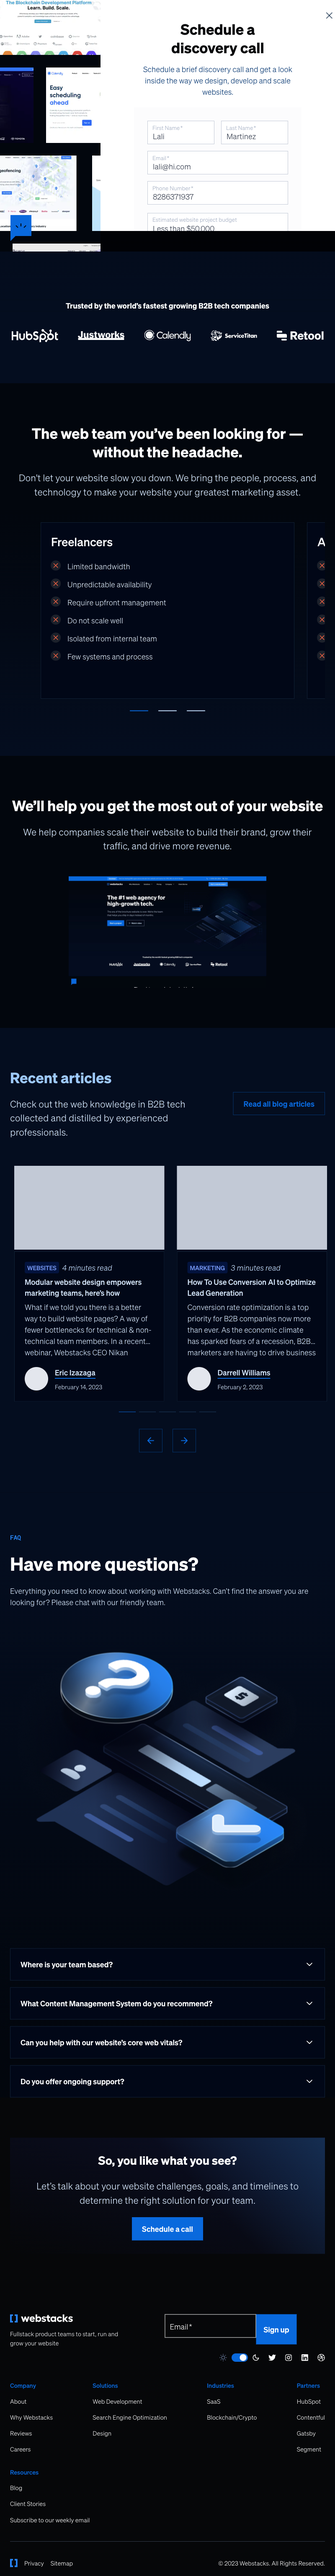
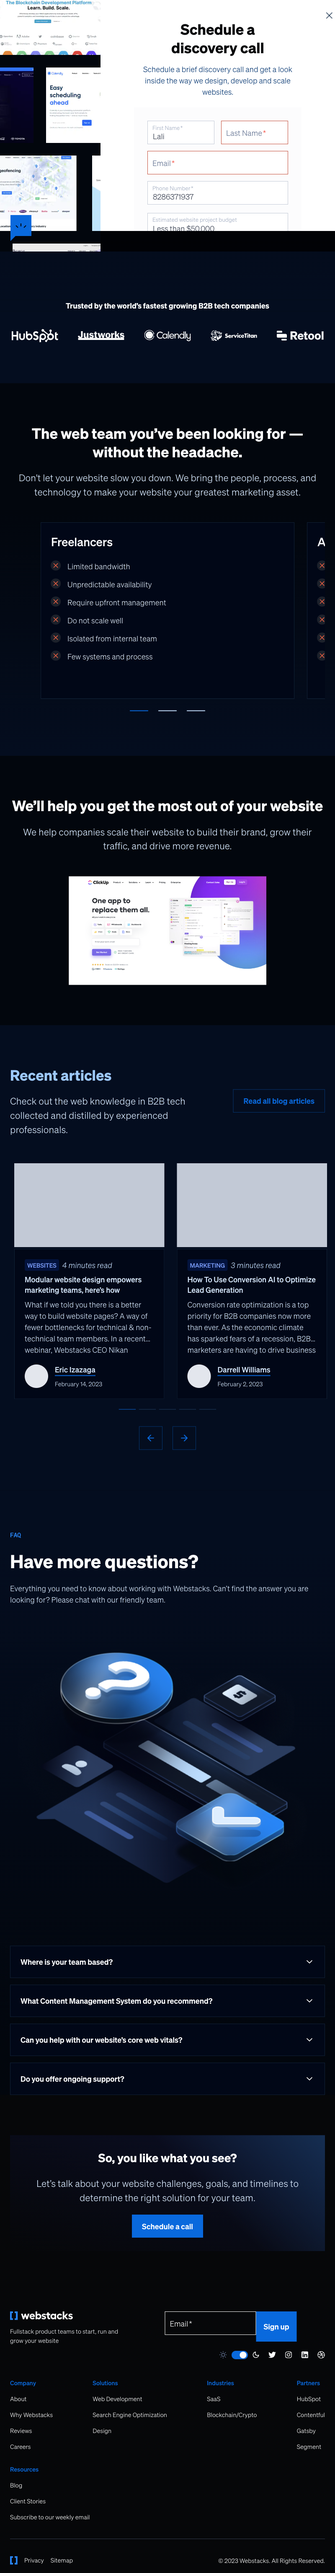
Updated script to check if required fields are empty and print a message to the console saying whether or not form was submitted.

diff --git a/index.js b/index.js
@@ -19,15 +19,18 @@ async function fillOutStartWebsiteProjectForm() {
   await closeSurveyButton[0].click();
   await page.waitForTimeout(2000);
 
+  //Open form
   const startWebsiteButton = await page.$x('//*[@id="76c00e62-f6cc-5450-9667-dfaf9604c3b0"]');
   await startWebsiteButton[3].click();
   await page.waitForTimeout(3000);
 
+  //Fill out form
   await page.type('#mui-20', 'Lali');
-  await page.type('#mui-21', 'Martinez');
-  await page.type('#mui-22', 'lali@hi.com');
+  //await page.type('#mui-21', 'Martinez');
+  //await page.type('#mui-22', 'lali@hi.com');
   await page.type('#mui-23', '8286371937')
 
+  //Select drop down option
   const budgetDropdown = await page.$x('//*[@id="mui-component-select-estimated_website_project_budget"]');
   await budgetDropdown[3].click();
   await page.waitForTimeout(1000);
@@ -35,10 +38,35 @@ async function fillOutStartWebsiteProjectForm() {
   await selectBudget[0].click();
   await page.waitForTimeout(1000);
 
+  //Fill out the rest of the form
   scrollToElement(page, '#mui-24');
   await page.type('#mui-24', 'This is a description of the website.');
   await page.type('#mui-25', 'From a friend.');
   await page.waitForTimeout(2000);
+
+  //Submit form
+  const startAProjectButton = await page.$x('//*[@id="c9ddb794-a0ec-5d4b-a71e-82e31adc9f9e"]/form/div/button');
+  startAProjectButton[3].click();
+  await page.waitForTimeout(2000);
+
+  //Check for empty required fields
+  const firstNameInvalid = await page.evaluate(() => document.querySelector('#mui-20').getAttribute('aria-invalid') == 'true');
+  const lastNameInvalid = await page.evaluate(() => document.querySelector('#mui-21').getAttribute('aria-invalid') == 'true');
+  const emailInvalid = await page.evaluate(() => document.querySelector('#mui-22').getAttribute('aria-invalid') == 'true');
+  const phoneInvalid = await page.evaluate(() => document.querySelector('#mui-23').getAttribute('aria-invalid') == 'true');
+  const descriptionInvalid = await page.evaluate(() => document.querySelector('#mui-24').getAttribute('aria-invalid') == 'true');
+
+  //Check if no option selected for drop down
+  const dropdownEmpty = await page.evaluate(() => {
+    const dropdownValue = Array.from(document.querySelectorAll('#mui-component-select-estimated_website_project_budget')).slice(-1)[0].textContent;
+    return dropdownValue.length == 1;
+  });
+
+  //Print message to console if form was submitted or not
+  if (firstNameInvalid || lastNameInvalid || emailInvalid || phoneInvalid || descriptionInvalid || dropdownEmpty)
+    console.log("Error: form did not submit.");
+  else
+    console.log("Form successfully submitted.");
 
   await page.screenshot({ path: 'schedule_call_form.png', fullPage: true });
   await browser.close();
